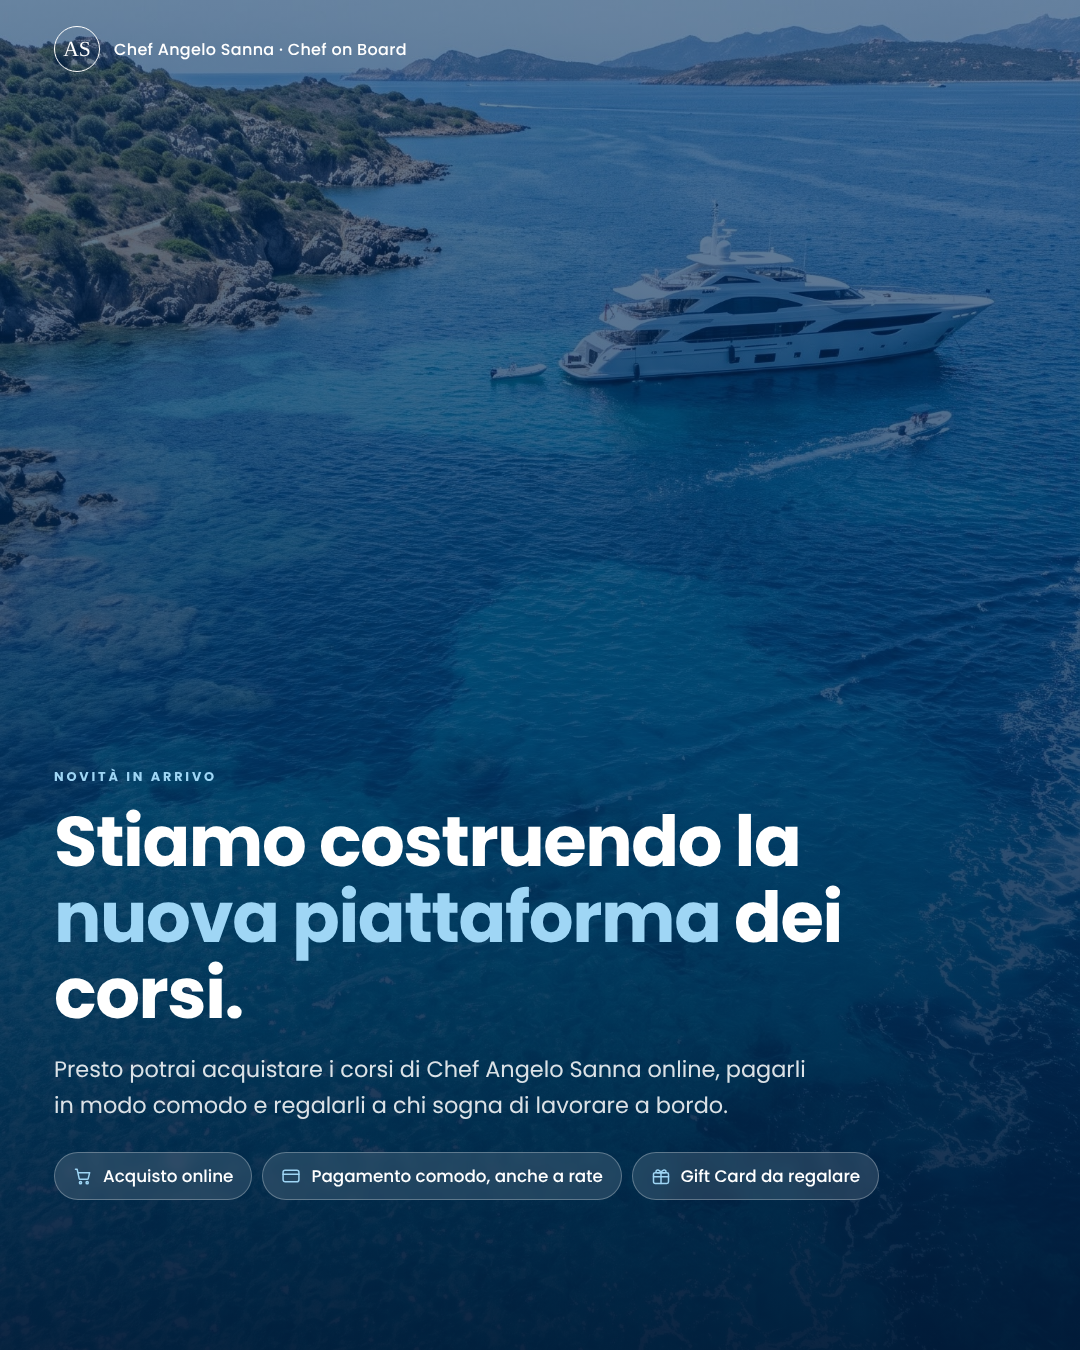
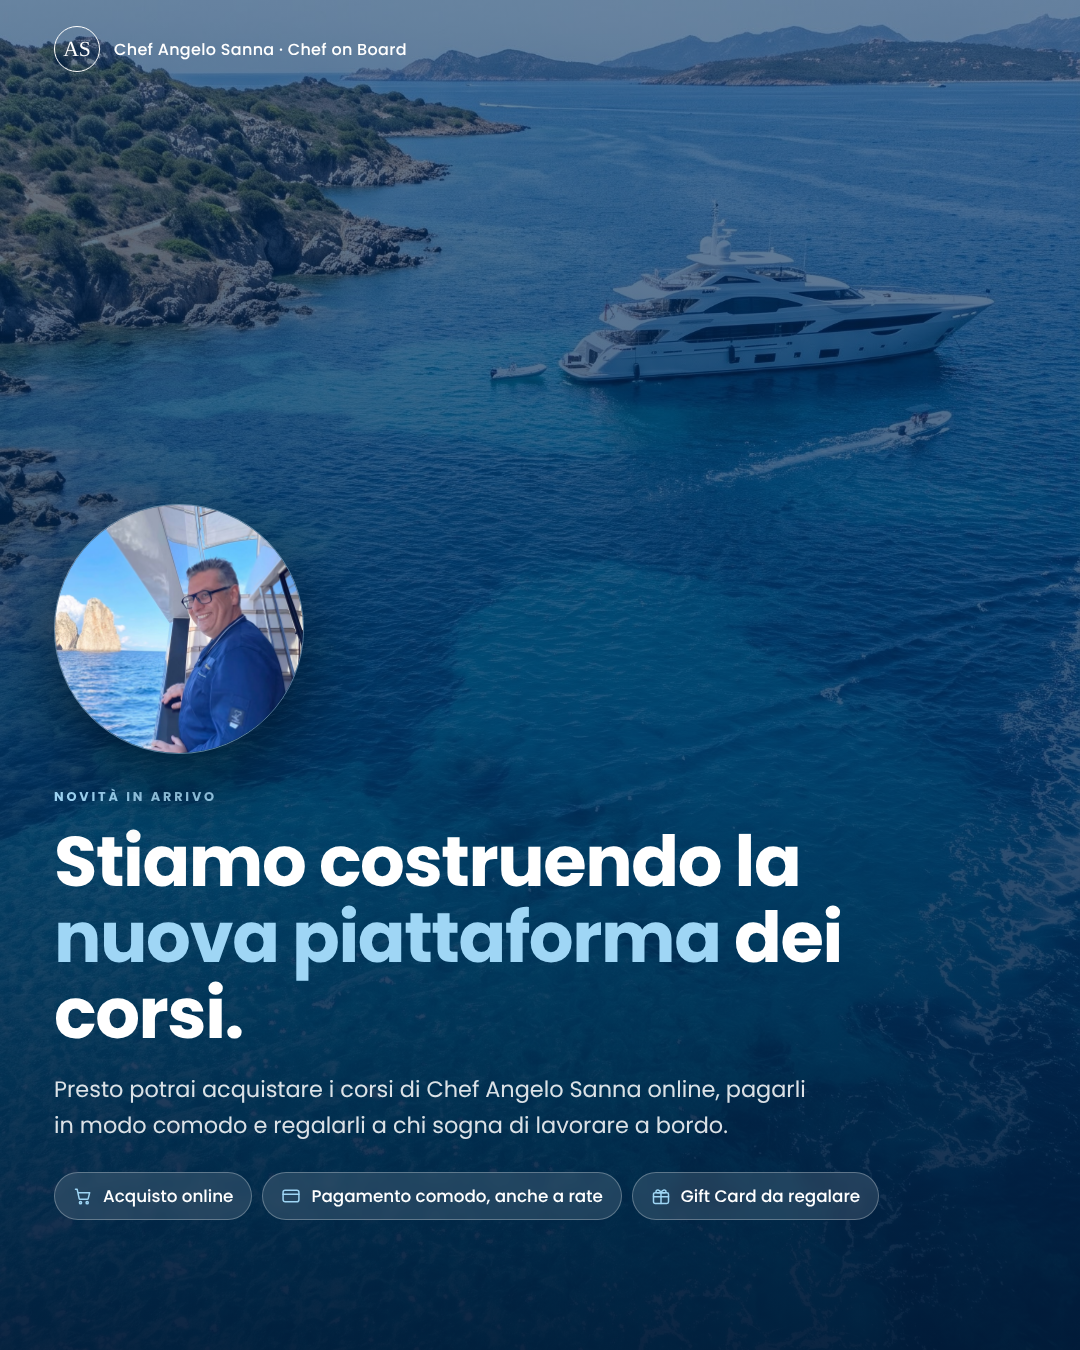
Pagina di attesa: foto di Angelo e pallino WhatsApp
Claude-Session: https://claude.ai/code/session_01MHrXs5Cebj6mk2G3tMtHRn

Changed region(s): [[0.0306, 0.3733, 0.825, 0.9022]]

diff --git a/public/presto.html b/public/presto.html
@@ -22,7 +22,16 @@ body{font-family:'Poppins',system-ui,sans-serif;color:#fff;background:var(--abys
 .top{display:flex;align-items:center;gap:14px;padding:26px clamp(20px,5vw,64px)}
 .logo{width:46px;height:46px;border:1.5px solid #fff;border-radius:50%;display:grid;place-items:center;font:400 1.35rem 'Playfair Display',serif}
 .top span{font-weight:500;letter-spacing:.02em}
-.main{flex:1;display:flex;align-items:center;padding:20px clamp(20px,5vw,64px) 40px}
+.main{flex:1;display:flex;align-items:center;justify-content:space-between;gap:clamp(24px,5vw,72px);padding:20px clamp(20px,5vw,64px) 40px}
+.angelo{flex:none;width:min(34vw,400px);position:relative}
+.angelo img{display:block;width:100%;height:auto;aspect-ratio:4/5;object-fit:cover;object-position:60% 30%;border-radius:26px;border:1px solid rgba(255,255,255,.35);box-shadow:0 30px 70px rgba(0,0,0,.45)}
+.angelo figcaption{position:absolute;left:16px;right:16px;bottom:16px;background:rgba(1,42,87,.82);backdrop-filter:blur(6px);border-radius:14px;padding:12px 16px;font-size:.88rem;line-height:1.4}
+.angelo figcaption b{display:block;font-size:1rem}
+.wa{position:fixed;right:20px;bottom:20px;width:60px;height:60px;border-radius:50%;background:#25d366;display:grid;place-items:center;box-shadow:0 10px 28px rgba(0,0,0,.4);z-index:20;transition:transform .15s}
+.wa:hover{transform:scale(1.07)}
+.wa::after{content:"";position:absolute;inset:0;border-radius:50%;border:2px solid #25d366;animation:ping 2.4s ease-out infinite}
+@keyframes ping{from{transform:scale(1);opacity:.7}to{transform:scale(1.6);opacity:0}}
+@media(max-width:900px){.main{flex-direction:column-reverse;align-items:flex-start}.angelo{width:min(78vw,340px)}}
 .box{max-width:780px}
 .eyebrow{color:var(--sky2);font-weight:600;font-size:.8rem;letter-spacing:.22em;text-transform:uppercase;margin-bottom:18px}
 h1{font-size:clamp(2.1rem,6vw,4rem);line-height:1.08;font-weight:700;letter-spacing:-.02em}
@@ -46,7 +55,10 @@ button:disabled{opacity:.6;cursor:wait}
 .foot a{color:#fff;text-decoration:none;border-bottom:1px solid rgba(255,255,255,.4)}
 /* ?img=1 → versione immagine da condividere sui social (senza modulo) */
 .img form,.img .foot{display:none}
-.img .main{align-items:flex-end;padding-bottom:150px}
+.img .main{flex-direction:column-reverse;align-items:flex-start;justify-content:flex-start;gap:34px;padding-bottom:130px}
+.img .angelo{width:250px}
+.img .angelo img{aspect-ratio:1;border-radius:50%;object-position:60% 25%}
+.img .angelo figcaption,.img .wa{display:none}
 .img .box{max-width:900px}
 .img h1{font-size:4.4rem}
 .img .lead{font-size:1.4rem;max-width:760px}
@@ -76,13 +88,16 @@ button:disabled{opacity:.6;cursor:wait}
       <button id="b" type="submit">Avvisami al lancio</button>
       <div class="msg" id="m" role="status"></div>
     </form>
-  </div></div>
+  </div>
+  <figure class="angelo"><img src="/assets/angelo.jpg" alt="Chef Angelo Sanna a bordo di uno yacht" width="1000" height="1245"><figcaption><b>Chef Angelo Sanna</b>Private Chef su yacht e ville di lusso</figcaption></figure>
+  </div>
   <div class="foot">
     <a href="https://wa.me/393208877838" target="_blank" rel="noopener noreferrer">WhatsApp +39 320 887 7838</a>
     <a href="https://www.instagram.com/angelosannachef/" target="_blank" rel="noopener noreferrer">@angelosannachef</a>
     <a href="mailto:chef@angelosanna.com">chef@angelosanna.com</a>
   </div>
 </div>
+<a class="wa" href="https://wa.me/393208877838?text=Ciao%20Chef%20Angelo%2C%20vorrei%20info%20sulla%20nuova%20piattaforma%20dei%20corsi" target="_blank" rel="noopener noreferrer" aria-label="Scrivici su WhatsApp"><svg width="32" height="32" viewBox="0 0 32 32" fill="#fff" aria-hidden="true"><path d="M16.04 3C9.4 3 4 8.38 4 15.01c0 2.12.55 4.19 1.6 6.01L4 29l8.2-1.56a12.03 12.03 0 0 0 3.84.62C22.68 28.06 28 22.67 28 16.04 28 9.4 22.68 3 16.04 3zm0 22.03c-1.2 0-2.38-.3-3.42-.87l-.5-.28-4.87.93.95-4.74-.3-.52a9.95 9.95 0 0 1-1.5-5.28c0-5.5 4.5-9.97 10.03-9.97 5.53 0 9.97 4.47 9.97 9.97 0 5.5-4.44 9.76-10.36 10.76zm5.46-7.46c-.3-.15-1.77-.87-2.04-.97-.27-.1-.47-.15-.67.15-.2.3-.77.97-.94 1.17-.17.2-.35.22-.65.07-.3-.15-1.27-.47-2.42-1.5-.9-.8-1.5-1.78-1.67-2.08-.17-.3-.02-.46.13-.6.13-.14.3-.35.45-.52.15-.17.2-.3.3-.5.1-.2.05-.37-.02-.52-.08-.15-.67-1.62-.92-2.22-.24-.58-.49-.5-.67-.51h-.57c-.2 0-.52.07-.8.37-.27.3-1.04 1.02-1.04 2.48 0 1.46 1.07 2.88 1.22 3.08.15.2 2.1 3.2 5.08 4.49.71.3 1.26.49 1.7.63.71.23 1.36.2 1.88.12.57-.09 1.77-.72 2.02-1.42.25-.7.25-1.3.17-1.42-.07-.12-.27-.2-.57-.35z"/></svg></a>
 <script>
 if(/[?&]img=1/.test(location.search))document.getElementById('hero').classList.add('img'),document.body.classList.add('img');
 var f=document.getElementById('f'),m=document.getElementById('m'),b=document.getElementById('b');

diff --git a/server.js b/server.js
@@ -15,7 +15,7 @@ const PUBLIC_DIR = path.join(__dirname, 'public');
 // COMING_SOON=1 → online c'è SOLO la pagina "stiamo arrivando" (public/presto.html); il resto del sito resta nascosto.
 // /admin continua a funzionare. Togli la variabile (o mettila a 0) per mostrare il sito completo.
 const COMING_SOON = /^(1|true|on|si)$/i.test(process.env.COMING_SOON || '');
-const CS_STATIC = ['/', '/admin', '/admin/', '/admin.html', '/presto.html', '/assets/hero-yacht.jpeg'];
+const CS_STATIC = ['/', '/admin', '/admin/', '/admin.html', '/presto.html', '/assets/hero-yacht.jpeg', '/assets/angelo.jpg'];
 const CS_API = ['/api/login', '/api/richieste', '/api/stripe/webhook'];
 const DATA_DIR = path.join(__dirname, 'data');
 const DB_URL = process.env.REPLIT_DB_URL || '';
